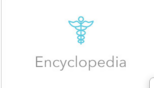
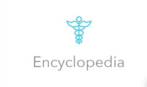
Image issue
Home screen

diff --git a/BabyApp/HomeViewController.m b/BabyApp/HomeViewController.m
@@ -47,6 +47,11 @@
     titlesArray=[NSArray arrayWithObjects:@"My Immunisation",@"My Screening",@"My Growth Percentiles", nil];
     colorArray=[NSArray arrayWithObjects:@"D35560",@"F8C34F",@"53B8B1", nil];
 
+    
+    self.btnEncyclopedia.layer.borderWidth = 1.0;
+    self.btnEncyclopedia.layer.borderColor = [UIColor lightGrayColor].CGColor;
+    self.btnHealthbooklet.layer.borderWidth = 1.0;
+    self.btnHealthbooklet.layer.borderColor = [UIColor lightGrayColor].CGColor;
 
 }
 
@@ -150,6 +155,7 @@
                            green:((float) g / 255.0f)
                             blue:((float) b / 255.0f)
                            alpha:1.0f];
+    
 }
 
 #pragma mark - UITableView Delegate & Datasrouce -

diff --git a/BabyApp/HomeViewController.h b/BabyApp/HomeViewController.h
@@ -16,6 +16,8 @@
 
 @property (weak, nonatomic) IBOutlet UIImageView *childPic;
 
+@property (weak, nonatomic) IBOutlet UIButton *btnEncyclopedia;
+@property (weak, nonatomic) IBOutlet UIButton *btnHealthbooklet;
 
 
 @end
